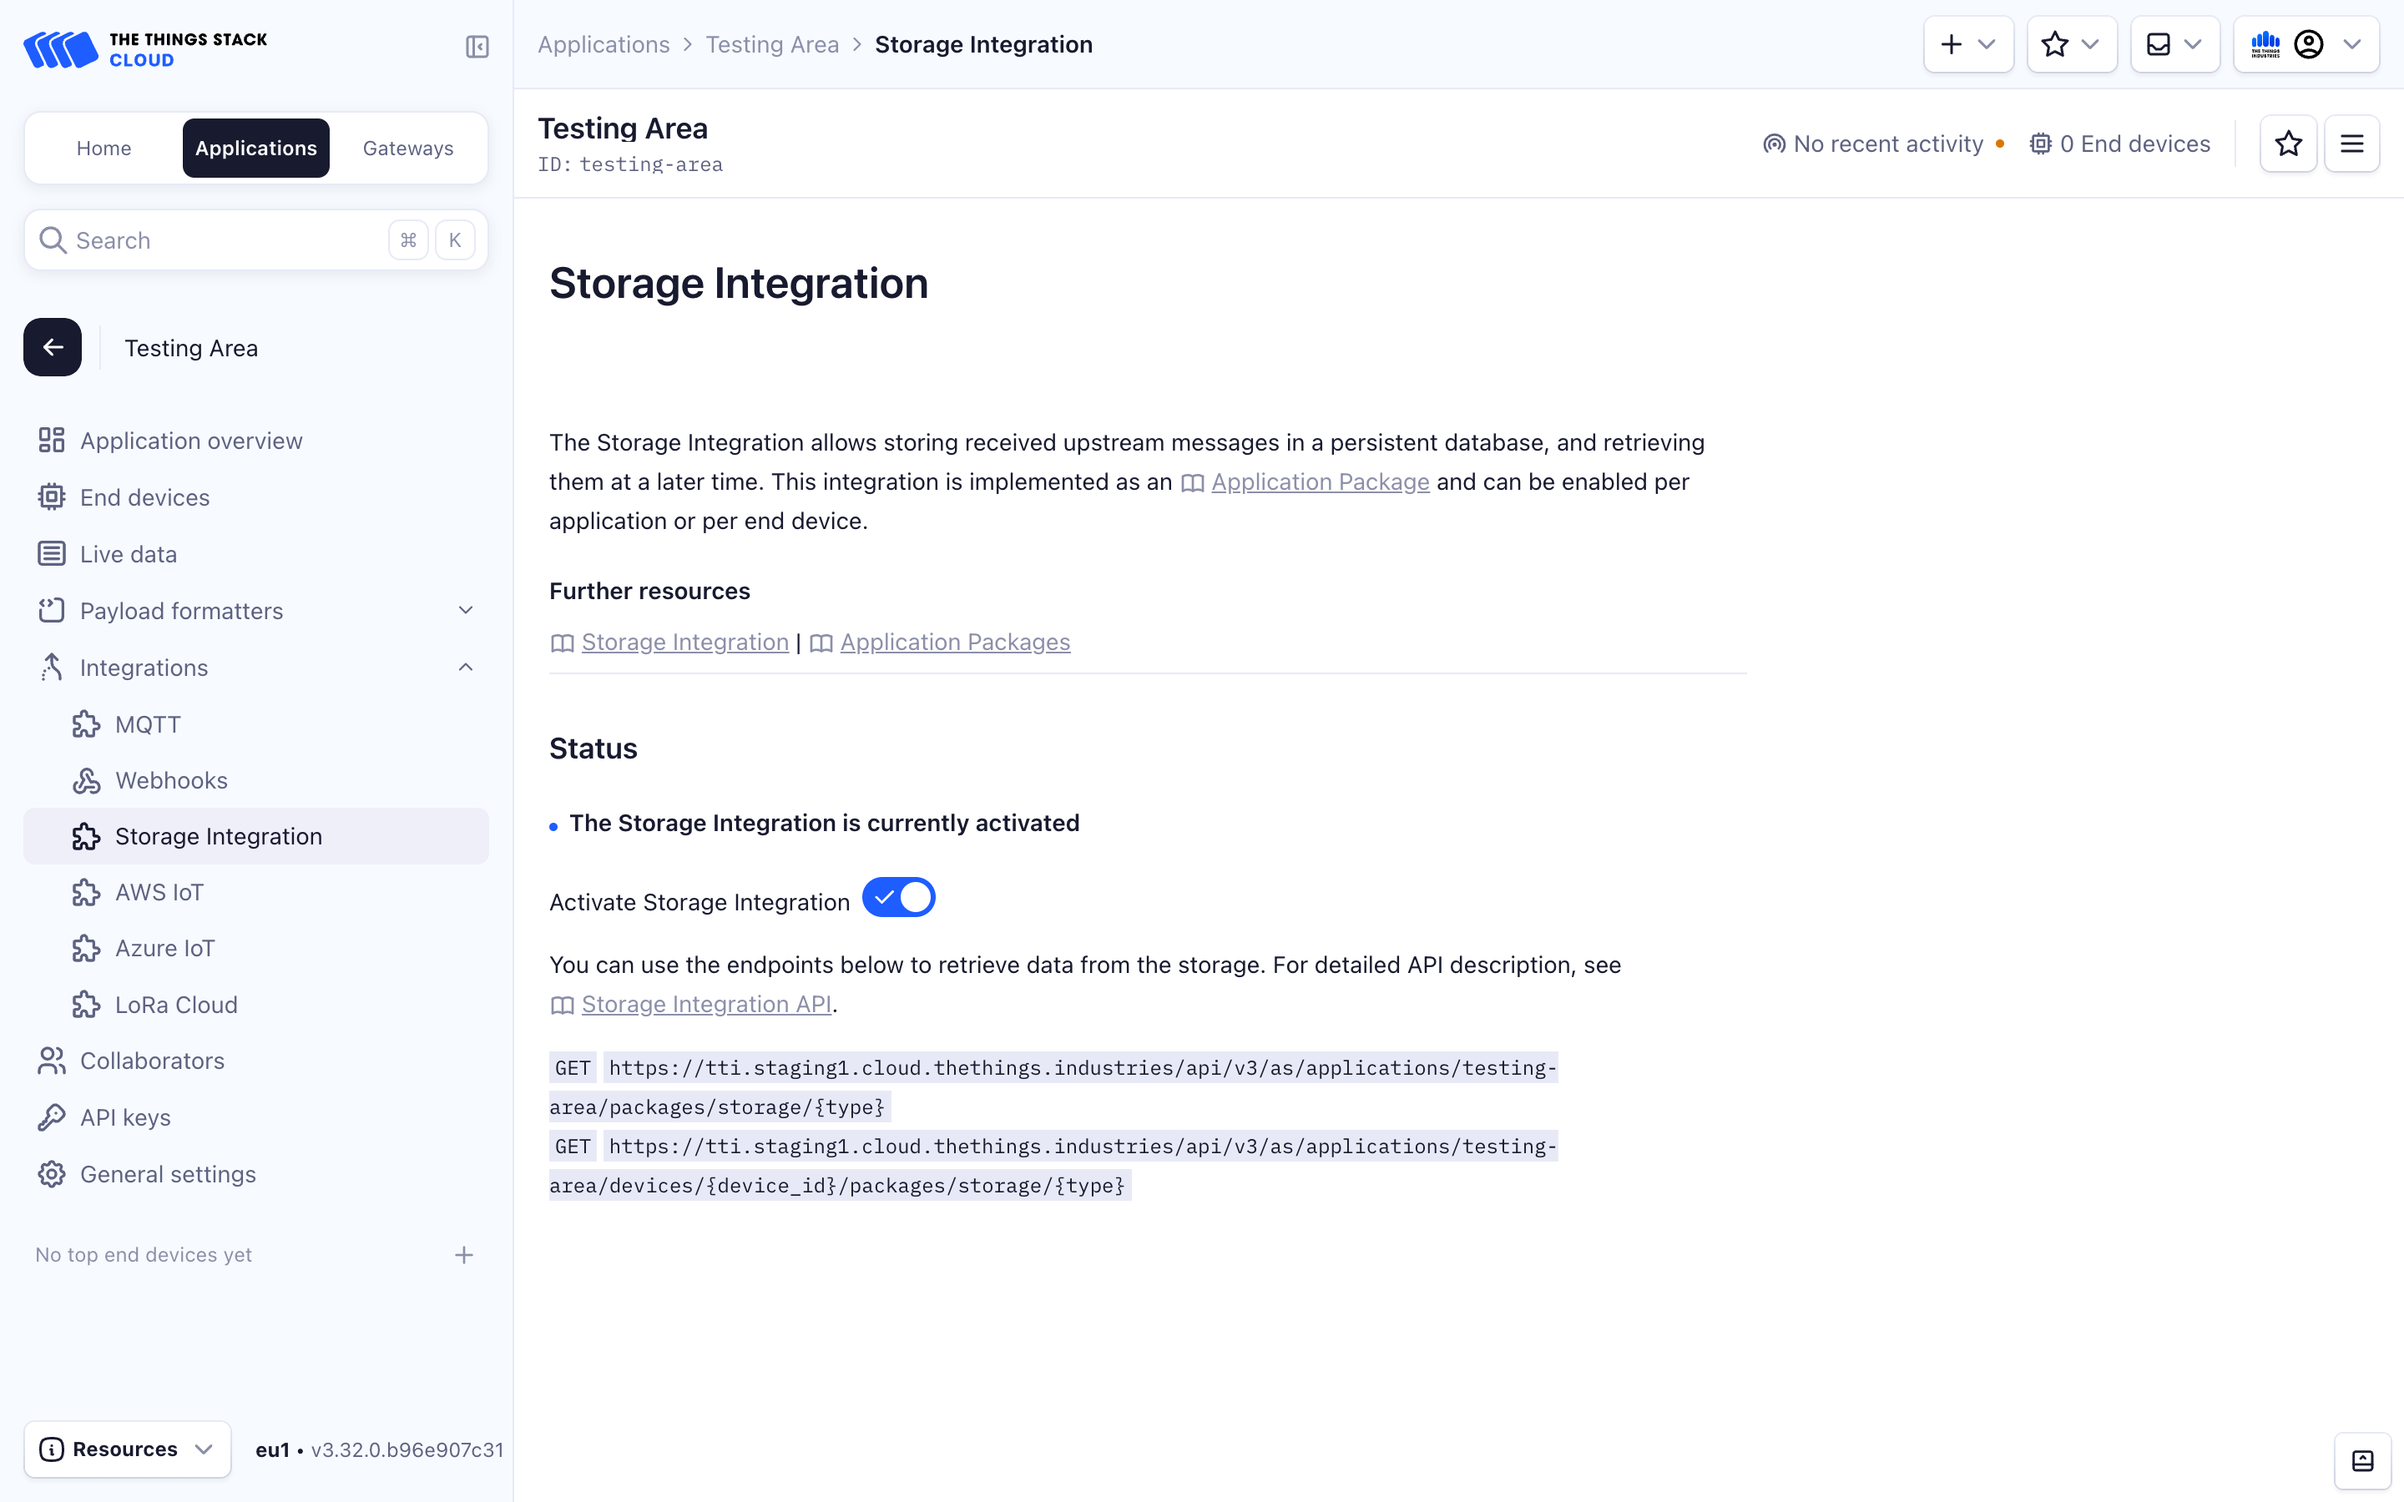
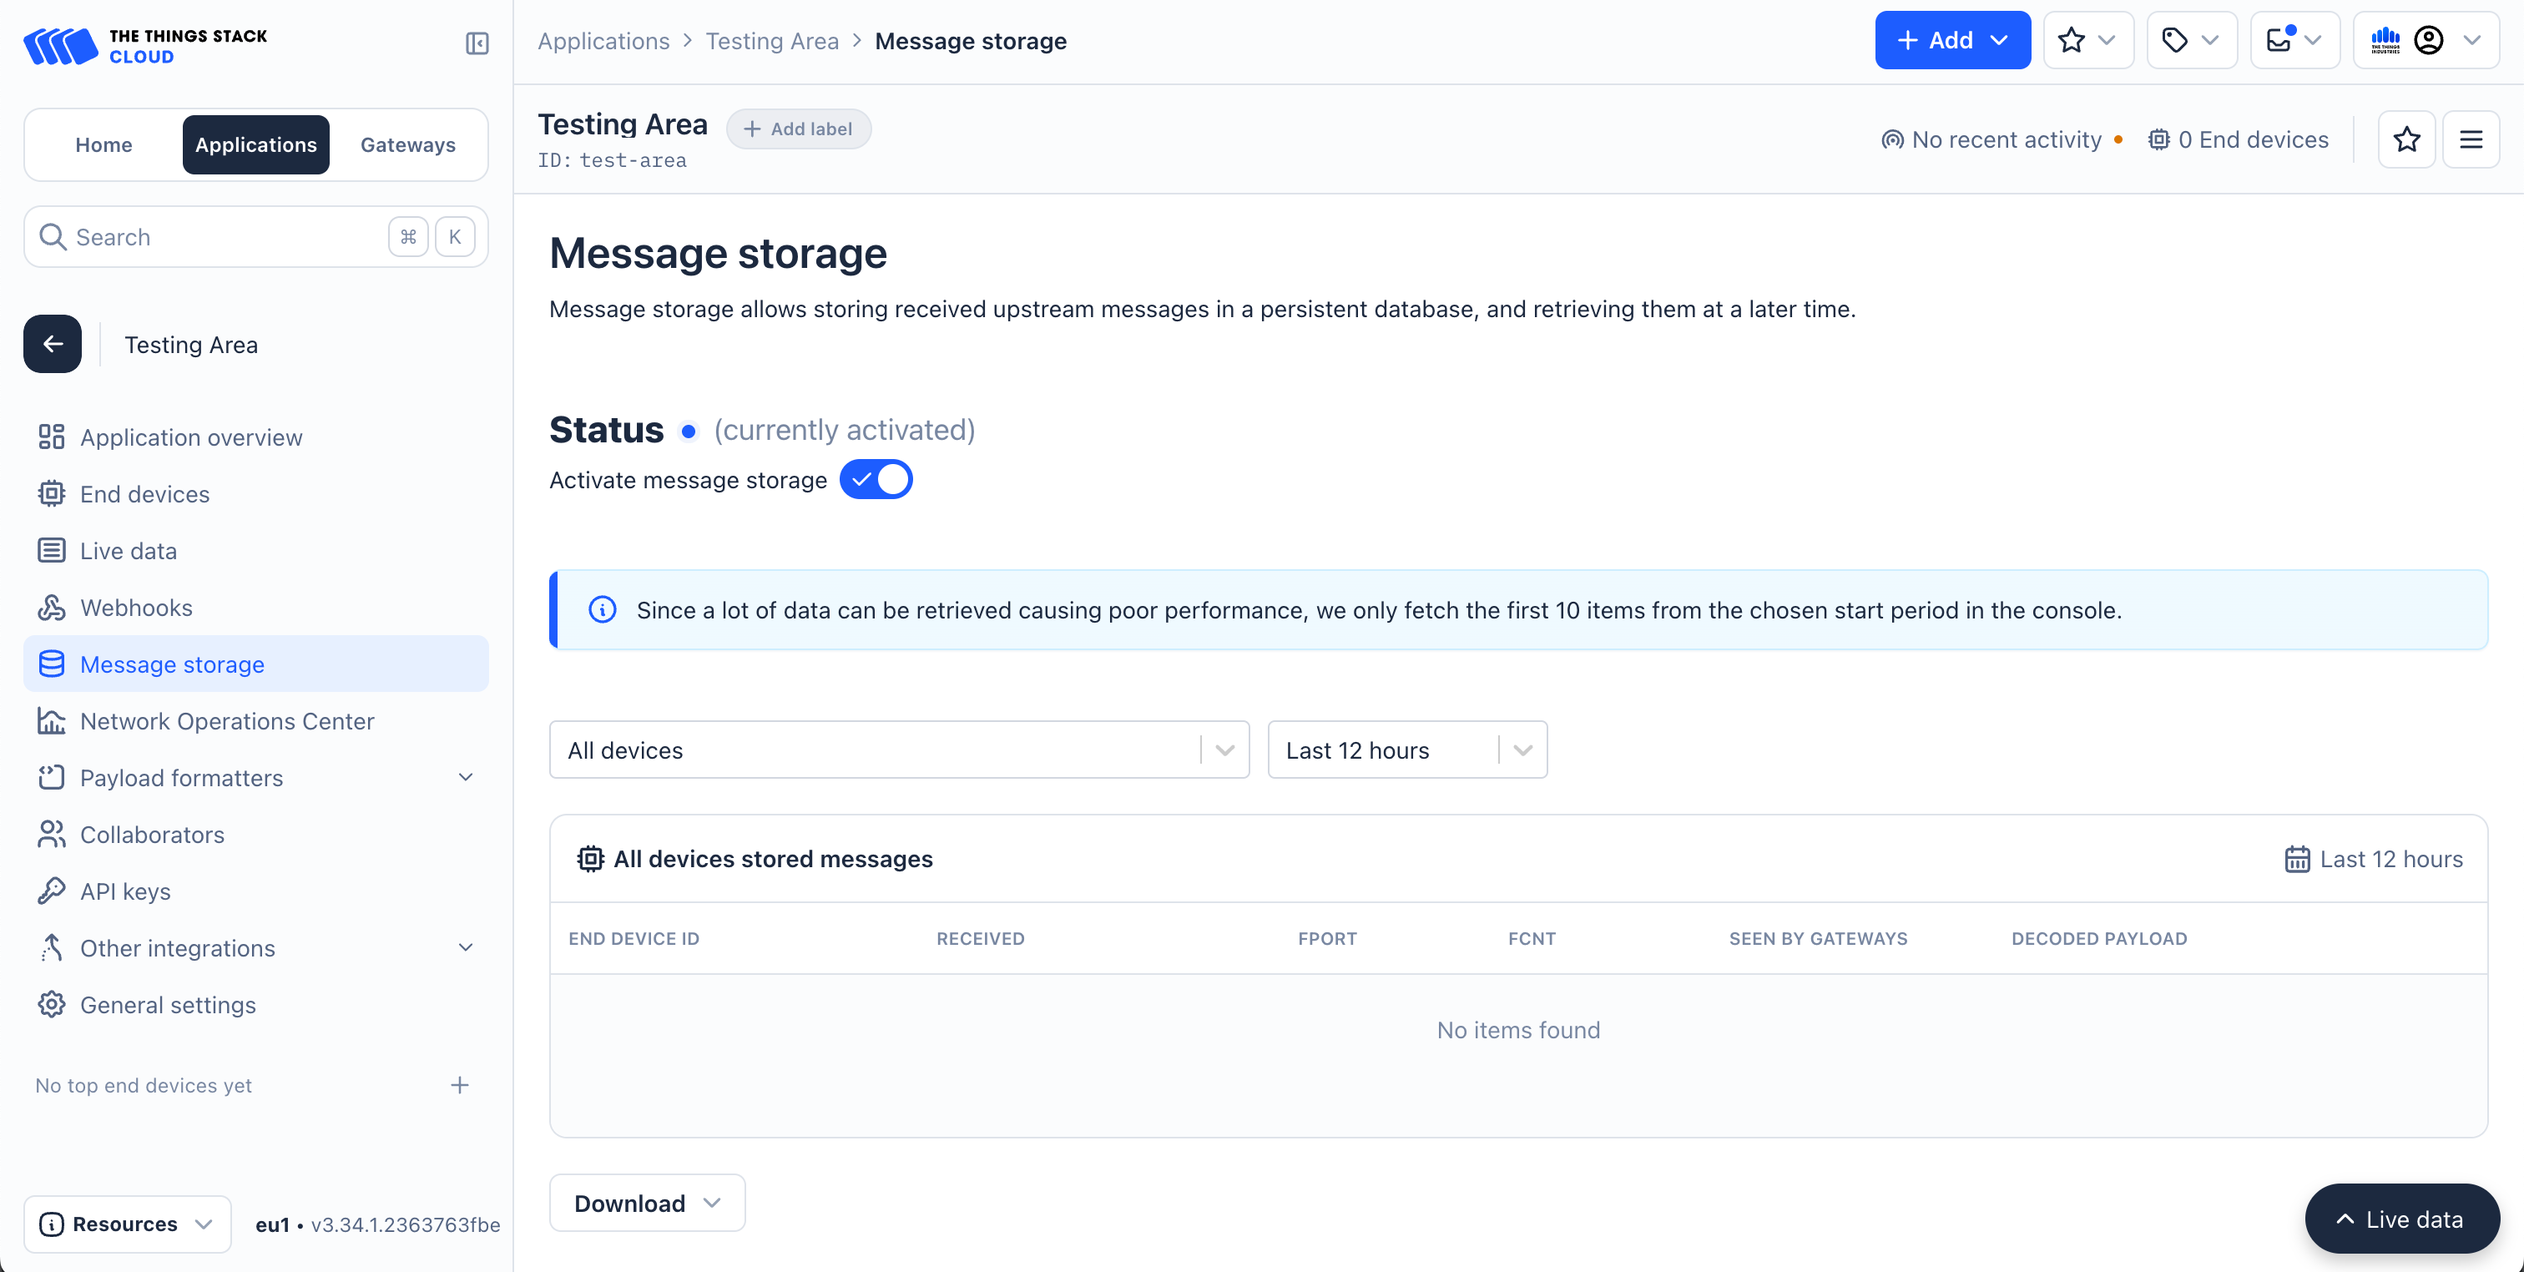
doc: Expand storage integration page content

diff --git a/doc/content/integrations/storage/_index.md b/doc/content/integrations/storage/_index.md
@@ -14,21 +14,53 @@ The Storage Integration is implemented as an Application Package, and can be ena
 
 ## How it works
 
-The Storage Integration runs on the Application Server and watches for upstream traffic (join requests, data uplink message, data downlink message, etc). When an upstream message is received from an end device for which the integration has been configured, the message data (Payload, FPort, Decoded Fields, as well as all relevant metadata) are written in a persistent database.
+The Storage Integration runs on the Application Server and watches for upstream traffic (join requests, data uplink messages, data downlink messages, etc). When an upstream message is received from an end device for which the integration has been configured, the message data (Payload, FPort, Decoded Fields, as well as all relevant metadata) are written to a persistent database.
 
 Data retention period is 30 days for {{% tts %}} Cloud and 24 hours for {{% ttss %}} distributions. For {{% tts %}} Enterprise distributions, data retention period can be [configured]({{< ref "/integrations/storage/configuration" >}}).
 
 A gRPC service and an HTTP API are exposed so that stored messages can then be retrieved.
 
-{{< note >}} {{% tts %}} Cloud stores only uplink messages. {{</ note >}}
+{{< note >}}
+{{% tts %}} Cloud stores only uplink messages.
+{{</ note >}}
 
 {{< warning >}}
 The Storage Integration should not be used for querying realtime data. For scalability reasons, writes to the Storage Integration database are performed in batches and there may be a delay after an uplink is received, before it is available. For realtime alerts, use [Webhooks]({{< ref "integrations/webhooks" >}}).
 {{</ warning >}}
 
-## Typical use cases
+---
+
+## Viewing Stored Messages in the Console
+
+The Console offers a view for checking the Storage Integration status and displays recently stored messages.
+
+{{< figure src="enable/activated-storage-integration.png" alt="Activated storage integration" >}}
+
+This view allows filtering by end device and time range, and displays stored messages along with decoded payloads and metadata.
+
+{{< note >}}
+For performance reasons, only the first 10 results are shown in the Console.
+{{</ note >}}
+
+---
+
+## Downloading Messages
+
+The Console allows you to download the **messages currently displayed in the table** view. This provides a quick way to extract and inspect recent stored messages.
+
+{{< figure src="download-stored-messages.png" alt="Download stored messages" >}}
+
+Click the **Download** button to download the visible messages in one of the following formats:
+
+- **JSON**: Ideal for programmatic access or integration with other systems.
+- **CSV**: Convenient for spreadsheets, quick inspection, or basic analysis.
+
+---
+
+## Typical use cases  
 
 - Long-term storage of historical data for end-devices.
-- No need to maintain a connection with {{% tts %}} at all times, e.g. for end devices that send messages infrequently.
+- Reliable message persistence for low-frequency or offline-capable devices.
+- Decoupled integrations where message delivery doesn't require constant connectivity.
 
 Detailed instructions about storage integration are in the topics below.
